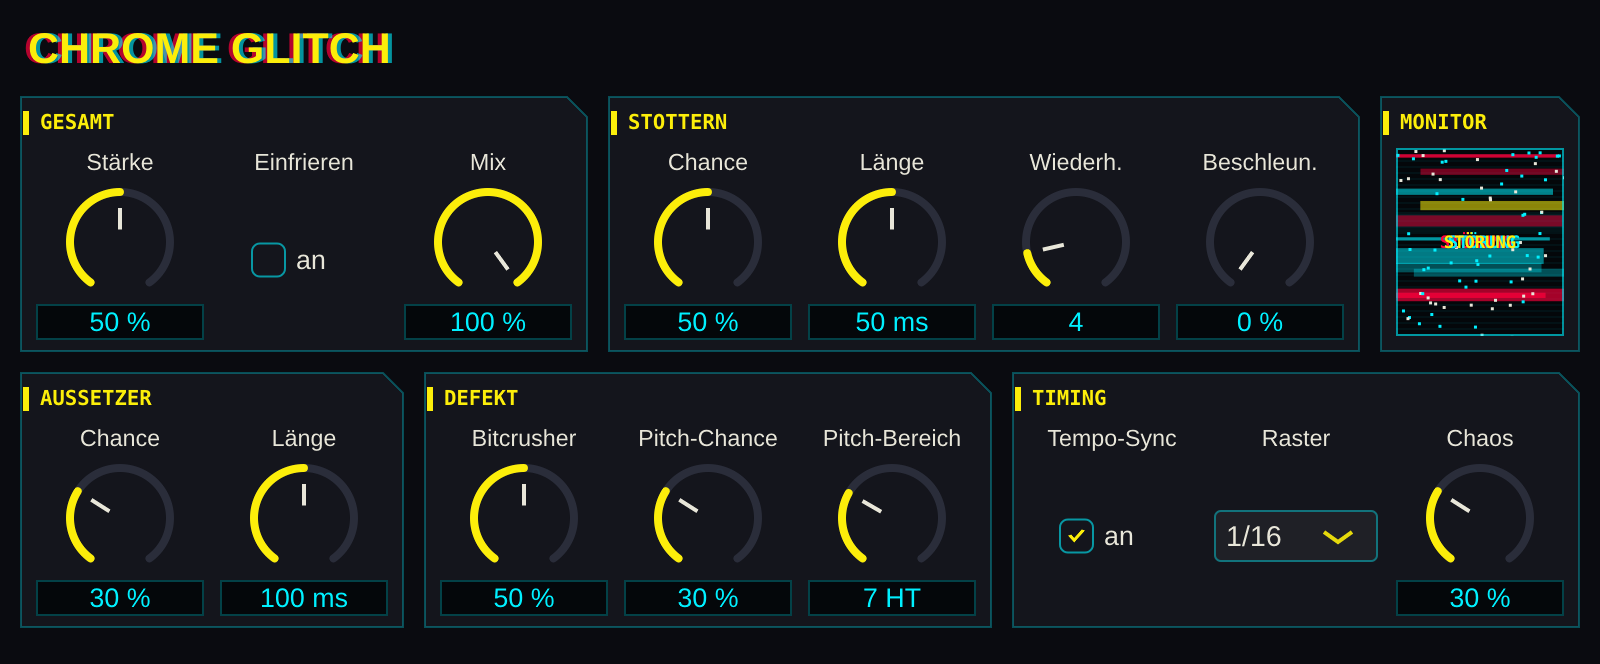
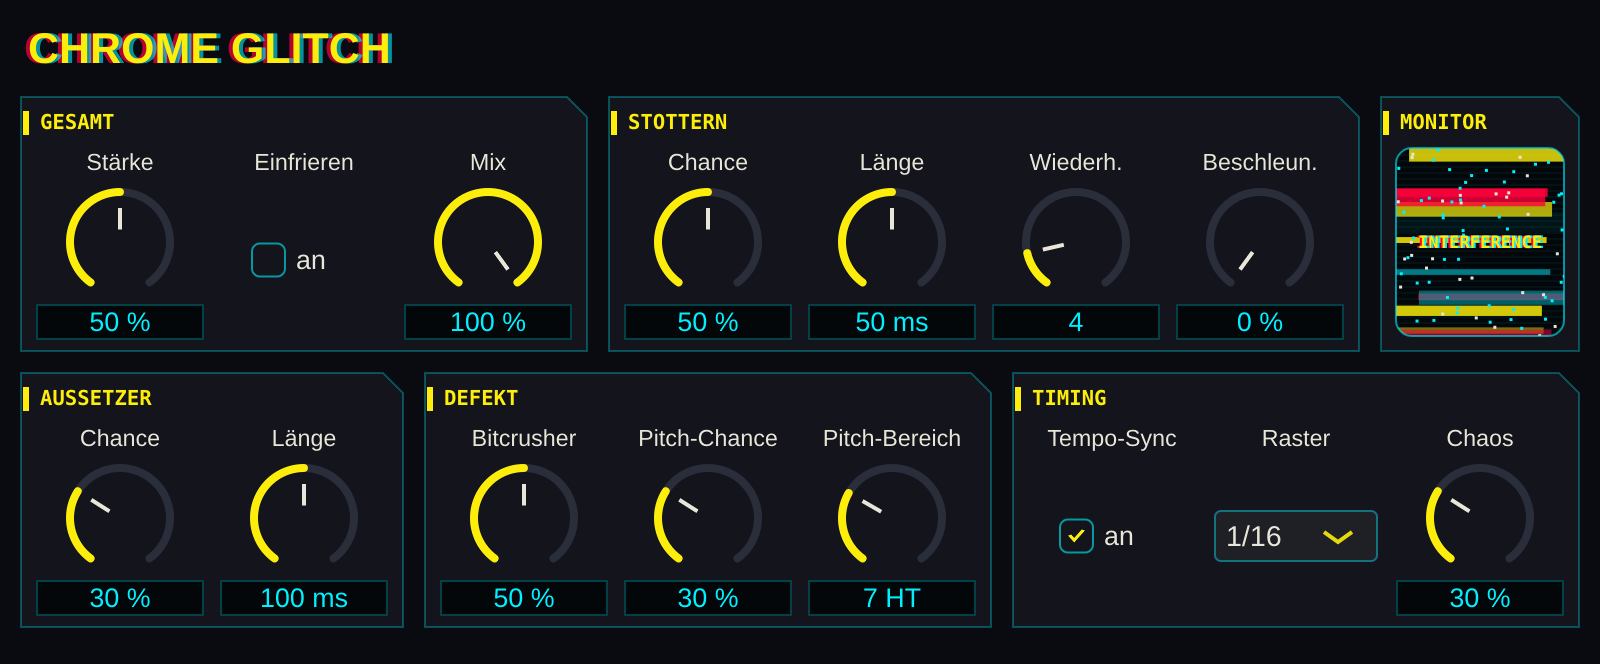
Chrome Glitch: Monitor mit runden Ecken und englischen Texten
Der Bildschirm ist jetzt abgerundet wie eine alte Röhre, und der Monitor
zeigt CHROME OK, INTERFERENCE, NO SIGNAL und FROZEN. Zu lange Wörter
werden gestaucht statt abgeschnitten.

Claude-Session: https://claude.ai/code/session_01ManCoDqUwJ5ihtCpKoemgV

Changed region(s): [[0.875, 0.2108, 1.0, 0.512]]

diff --git a/glitch/src/GlitchEditor.cpp b/glitch/src/GlitchEditor.cpp
@@ -249,12 +249,16 @@ void GlitchMonitor::paint(juce::Graphics& g)
     paintPanel(g, getLocalBounds(), "Monitor");
     const auto screen = getLocalBounds().reduced(8).withTrimmedTop(18);
     const auto area = screen.toFloat();
+    // Rounded like the glass of an old tube screen.
+    const float corner = 8.0f;
+    juce::Path glass;
+    glass.addRoundedRectangle(area, corner);
     g.setColour(kScreen);
-    g.fillRect(area);
+    g.fillPath(glass);
 
     {
         juce::Graphics::ScopedSaveState clip(g);
-        g.reduceClipRegion(screen);
+        g.reduceClipRegion(glass);
 
         // Scanlines and a slow bright band rolling down, as on an old screen.
         g.setColour(kCyan.withAlpha(0.05f));
@@ -292,28 +296,29 @@ void GlitchMonitor::paint(juce::Graphics& g)
             if (event == (int) GlitchEngine::Event::dropout)
             {
                 g.setColour(juce::Colours::black.withAlpha(0.5f * intensity));
-                g.fillRect(area);
+                g.fillPath(glass);
             }
 
             // The label flickers: some frames it drops out, and its colours split further the stronger the glitch.
             if (random.nextFloat() > 0.3f * intensity)
             {
-                const char* label = event == (int) GlitchEngine::Event::dropout  ? "KEIN SIGNAL"
-                                    : event == (int) GlitchEngine::Event::freeze ? "EINGEFROREN"
-                                                                                 : "STÖRUNG";
-                const auto text = utf8(label);
+                const juce::String text = event == (int) GlitchEngine::Event::dropout  ? "NO SIGNAL"
+                                          : event == (int) GlitchEngine::Event::freeze ? "FROZEN"
+                                                                                       : "INTERFERENCE";
                 const int split = 1 + (int) (3.0f * intensity * random.nextFloat());
+                // Squeezed rather than cut when a word is wider than the small screen.
+                const auto line = screen.reduced(4, 0);
                 g.setColour(kRed.withAlpha(intensity));
-                g.drawText(text, screen.translated(-split, 0), juce::Justification::centred);
+                g.drawFittedText(text, line.translated(-split, 0), juce::Justification::centred, 1, 0.7f);
                 g.setColour(kCyan.withAlpha(intensity));
-                g.drawText(text, screen.translated(split, 0), juce::Justification::centred);
+                g.drawFittedText(text, line.translated(split, 0), juce::Justification::centred, 1, 0.7f);
                 g.setColour(kYellow.withAlpha(std::max(0.4f, intensity)));
-                g.drawText(text, screen, juce::Justification::centred);
+                g.drawFittedText(text, line, juce::Justification::centred, 1, 0.7f);
             }
         }
     }
 
     g.setColour((intensity > 0.0f && frame % 2 == 0 ? kRed : kCyan).withAlpha(0.6f));
-    g.drawRect(area, 1.0f);
+    g.strokePath(glass, juce::PathStrokeType(1.0f));
 }
 } // namespace chromeglitch

diff --git a/CLAUDE.md b/CLAUDE.md
@@ -34,7 +34,7 @@ The Mac has only the Command Line Tools, no Xcode: keep the build on CMake's def
 
 ## Chrome Glitch
 
-A second plugin in the same CMake project: `ChromeGlitch` (audio effect, `aufx ChGl Bvlp`, sources in `glitch/src/`, tests in `tests/GlitchTests.cpp` inside `TonwerkSynthTests`). It is built, signed, validated with auval, installed and released alongside the synth. `GlitchEngine.h` is plain C++: ticks (grid lines of the host tempo in sync, random 40-250 ms gaps otherwise, the chaos share of those also in sync) roll for a stutter (replays the last slice, later repeats maybe pitched, never wrapping inside a repeat) or a dropout; every change crossfades over 1.5 ms; the crusher is full during a glitch and light between. The dice reseed on each transport start so bounces repeat. Its parameter ids follow the same never-rename rule; they start at version hint 1. The test app defines `CHROME_GLITCH_NO_ENTRY` because both plugins define `createPluginFilter`. The editor uses Cyberpunk 2077's colours (yellow, cyan, red on near black); its `GlitchMonitor` reads `glitching`, `glitchStarted` (set by the processor whenever `GlitchEngine::eventsStarted()` grows, taken back by the editor's 30 Hz timer, so a glitch shorter than a frame still shows) and `lastEvent`.
+A second plugin in the same CMake project: `ChromeGlitch` (audio effect, `aufx ChGl Bvlp`, sources in `glitch/src/`, tests in `tests/GlitchTests.cpp` inside `TonwerkSynthTests`). It is built, signed, validated with auval, installed and released alongside the synth. `GlitchEngine.h` is plain C++: ticks (grid lines of the host tempo in sync, random 40-250 ms gaps otherwise, the chaos share of those also in sync) roll for a stutter (replays the last slice, later repeats maybe pitched, never wrapping inside a repeat) or a dropout; every change crossfades over 1.5 ms; the crusher is full during a glitch and light between. The dice reseed on each transport start so bounces repeat. Its parameter ids follow the same never-rename rule; they start at version hint 1. The test app defines `CHROME_GLITCH_NO_ENTRY` because both plugins define `createPluginFilter`. The editor uses Cyberpunk 2077's colours (yellow, cyan, red on near black); its `GlitchMonitor` reads `glitching`, `glitchStarted` (set by the processor whenever `GlitchEngine::eventsStarted()` grows, taken back by the editor's 30 Hz timer, so a glitch shorter than a frame still shows) and `lastEvent`. The monitor's texts (CHROME OK, INTERFERENCE, NO SIGNAL, FROZEN) are English on Marcel's wish, the one exception to German UI strings.
 
 ## Tonwerk Distortion
 

diff --git a/README.md b/README.md
@@ -31,7 +31,7 @@ Ein Audio-Effekt aus demselben Repository, für eine Gesangsspur, deren „Sprac
 
 ![Chrome Glitch](docs/chrome-glitch.png)
 
-Oben rechts sitzt ein kleiner **Monitor**: Solange die Stimme sauber ist, zeigt er „CHROME OK“. Bei jedem Glitch flimmert er mit zerrissenen Balken und Rauschen und zeigt „STÖRUNG“, „KEIN SIGNAL“ (Aussetzer) oder „EINGEFROREN“. Auch Glitches, die kürzer als ein Bild sind, lassen ihn aufflackern.
+Oben rechts sitzt ein kleiner **Monitor**: Solange die Stimme sauber ist, zeigt er „CHROME OK“. Bei jedem Glitch flimmert er mit zerrissenen Balken und Rauschen und zeigt „INTERFERENCE“ (Stottern), „NO SIGNAL“ (Aussetzer) oder „FROZEN“ (Einfrieren). Die Texte im Monitor sind bewusst englisch, wie die Anzeigen im Spiel. Auch Glitches, die kürzer als ein Bild sind, lassen ihn aufflackern.
 
 Der Effekt arbeitet ohne Latenz auf dem, was gerade hereinkommt. An jedem Schritt des Rasters (im Songtempo) oder zu zufälligen Momenten (40–250 ms auseinander) würfelt er, ob etwas passiert:
 
